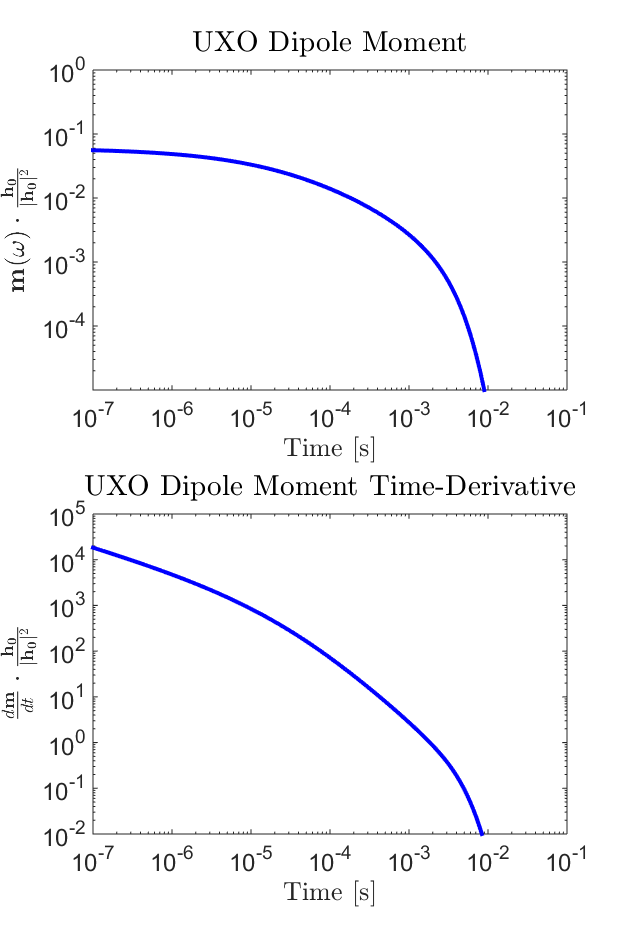
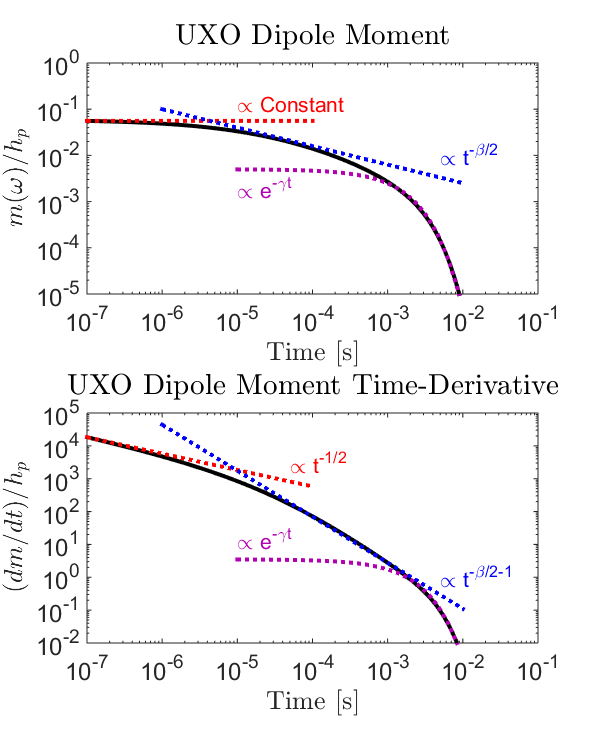
Interpretation edits

diff --git a/content/geophysical_surveys/uxo/physics.rst b/content/geophysical_surveys/uxo/physics.rst
@@ -21,7 +21,7 @@ As explained on the previous page, EM UXO surveys operate on the principles of e
 Dipole Model for UXO Responses
 ------------------------------
 
-Research has shown that in general, the secondary field generated by a UXO (:math:`\mathbf{B}_{s}`) can be approximated by its dipole response (reference). As a result, the excitation of the ordnance item is characterized by an induced magnetic dipole moment (:math:`\mathbf{m}`). Thus:
+Research has shown that in general, the secondary field generated by a UXO (:math:`\mathbf{B}_{s}`) can be approximated by its dipole response (:cite:`Pasion1999,Belletal2001a,Belletal2001b,Zhangetal2003` and others). As a result, the excitation of the ordnance item is characterized by an induced magnetic dipole moment (:math:`\mathbf{m}`). Thus:
 
 .. math::
 	\mathbf{B}_{s} = \frac{\mu_0}{4 \pi} \Bigg [ \frac{3 \hat r \big ( \hat r \cdot \mathbf{m} \big ) - \mathbf{m}}{r^3} \Bigg ]
@@ -36,7 +36,7 @@ where the entries within the geometric forward modeling operator (:math:`\mathbf
 .. math::
 	G_{ij} = \frac{\mu_0}{4 \pi r^3} \big (3 r_i r_j - \delta{ij} \big ) \;\;\; \textrm{for} \;\;\; i,j = x,y,z
 
-and :math:`\delta_{ij}` is the Kronecker delta. The linear formulation allows for rapid computation of the EM response and can be adapted for multiple receiver coils set at one or more different orientations.
+and :math:`\delta_{ij}` is the Kronecker delta. The linear formulation allows for rapid computation of the EM response and can be adapted to accommodate multiple receiver coils.
 
 .. figure:: images/physics_dipole.png
 	:align: center
@@ -45,7 +45,7 @@ and :math:`\delta_{ij}` is the Kronecker delta. The linear formulation allows fo
 
 	Dipole anomaly 2 m above a magnetic dipole :math:`\mathbf{m} = [0,1,1]` Am :math:`\!^2`.
 
-Unlike a conductive and magnetically permeable sphere, the excitation of a UXO is not the same in all directions. As a result, its corresponding polarization cannot be characterized by a single excitation factor (link). This is overcome by treating the UXO as an orthogonal tri-axial object which experiences a polarization along each axis. Ultimately, the UXO's dipole moment can be expressed as: 
+Unlike a conductive and magnetically permeable sphere, the excitation of a UXO is not the same in all directions. As a result, its corresponding polarization cannot be characterized by a single :ref:`excitation factor <sphereFEM_dipole_response>`. This is overcome by treating the UXO as an orthogonal tri-axial object which experiences a polarization along each axis. Ultimately, the UXO's dipole moment can be expressed as: 
 
 .. figure:: images/Coordinates.png
 	:align: right
@@ -57,12 +57,12 @@ Unlike a conductive and magnetically permeable sphere, the excitation of a UXO i
 .. math::
 	\mathbf{m}(\omega) = \mathbf{A^T L A h_p}
 
-where :math:`A (\theta ,\phi )` is a 3D rotation matrix from the coordinate system of the fields (:math:`\hat x,\hat y,\hat z`) to the coordinate system for the UXO (:math:`\hat x',\hat y',\hat z'`), :math:`\mathbf{h_p} = [h_x, h_y, h_z]^T` is a vector denoting transmitter's primary field and :math:`\mathbf{L}` is the polarization tensor. Assuming there is no anisotropy, :math:`\mathbf{L}` is a diagonal matrix of the form:
+where :math:`A (\theta ,\phi )` is a 3D rotation matrix from the coordinate system of the fields (:math:`\hat x,\hat y,\hat z`) to the coordinate system of the UXO (:math:`\hat x',\hat y',\hat z'`), :math:`\mathbf{h_p} = [h_x, h_y, h_z]^T` is a vector representing the transmitter's primary field and :math:`\mathbf{L}` is called the polarization tensor. Assuming there is no anisotropy, :math:`\mathbf{L}` is a diagonal matrix of the form:
 
 .. math::
 	\mathbf{L} = \begin{bmatrix} L_{x'} & 0 & 0 \\ 0 & L_{y'} & 0 \\ 0 & 0 & L_{z'} \end{bmatrix}
 
-where :math:`L_{ii}` characterizes the polarization along each each axial direction :math:`\hat x'`, :math:`\hat y'` and :math:`\hat z'`. It should be noted that this model assumes the inducing field is spatially invariant about the target. For most ordnance items this assumption is acceptable because the items are small.
+where :math:`L_{ii}` characterizes the polarization along each each axial direction :math:`\hat x'`, :math:`\hat y'` and :math:`\hat z'`. It should be noted that this model assumes the inducing field is spatially invariant about the target. For most ordnance items this assumption is acceptable because the items are small and the fields are sufficiently smooth.
 
 
 Frequency-Domain Responses
@@ -75,27 +75,27 @@ The physics which governs the UXO's FEM response can be best understood by consi
 	:figwidth: 50%
 	:name: uxo_physics_FEM_moment
 
-	Induced dipole moment parallel to the inducing field (normalized by the inducing field) for a sphere (:math:`R` = 15 cm, :math:`\sigma=10^6` S/m, :math:`\mu_r` = 30) 2 m below an inductive source.
+	Induced dipole moment normalized by the inducing field for a sphere (:math:`R` = 10 cm, :math:`\sigma=10^6` S/m, :math:`\mu_r` = 30) 2 m below an inductive source.
 
 
 .. math::
 	\mathbf{B_s}(\omega) = \mathbf{G A^T L}(\omega) \mathbf{A h_p}
 
-where :math:`\mathbf{h_p} = [h_x, h_y, h_z]^T` is a vector denoting transmitter's primary field and :math:`\mathbf{L}(\omega)` is the polarization tensor. In this case, the polarization of the UXO depends on frequency. Assuming there is no anisotropy, :math:`\mathbf{L}(\omega)` is a diagonal matrix of the form:
+where :math:`\mathbf{h_p} = [h_x, h_y, h_z]^T` is a vector representing the transmitter's primary field and :math:`\mathbf{L}(\omega)` is the polarization tensor. In this case, the polarization of the UXO is frequency-dependent. Assuming there is no anisotropy, :math:`\mathbf{L}(\omega)` is a diagonal matrix of the form:
 
 .. math::
 	\mathbf{L}(\omega) = \begin{bmatrix} L_{x'} (\omega) & 0 & 0 \\ 0 & L_{y'} (\omega) & 0 \\ 0 & 0 & L_{z'} (\omega) \end{bmatrix}
 
-where :math:`L_{ii}(\omega)` characterizes the polarization along each axis of the UXO. From the model we ultimately see that the UXO's FEM response depends on its orientation relative to the transmitter, its polarization along each axis and the frequency of the transmitter.
+where :math:`L_{ii}(\omega)` characterizes the polarization along each axis of the UXO. From this model, we ultimately see that the UXO's FEM response depends on its orientation relative to the transmitter, its polarization along each axis and the operating frequency of the transmitter.
 
-In the case that the object is a sphere, :math:`L_{ii}(\omega) = \frac{4 \pi R^3}{3} \chi (\omega)` for :math:`ii=x',y',z'` where :math:`\chi (\omega)` is the excitation factor for a sphere. The dipole moment for a spherical object (normalized by the inducing field) is shown in :numref:`uxo_physics_FEM_moment`. The FEM anomaly from the sphere at f = 10 :math:`\!^5` Hz is shown in :numref:`uxo_physics_FEM_anomaly`.
+In the case that the object is a sphere, :math:`L_{ii}(\omega) = \frac{4 \pi R^3}{3} \chi (\omega)` for :math:`ii=x',y',z'` where :math:`\chi (\omega)` is the :ref:`excitation factor for a sphere <sphereFEM_excitation_factor>`. The dipole moment for a spherical object (normalized by the inducing field) is shown in :numref:`uxo_physics_FEM_moment`. The FEM anomaly from the sphere at f = 10 kHz is shown in :numref:`uxo_physics_FEM_anomaly`.
 
 .. figure:: images/physics_FEM_anomaly.png
 	:align: center
 	:figwidth: 100%
 	:name: uxo_physics_FEM_anomaly
 
-	FEM anomaly at f = :math:`10^5` Hz for a coincident loop system which measures 3-component data 2 m above a conductive and magnetically permeable sphere (:math:`R` = 15 cm, :math:`\sigma=10^6` S/m, :math:`\mu_r` = 30).
+	FEM anomaly at f = 10 kHz for a coincident loop system which measures 3-component data 2 m above a conductive and magnetically permeable sphere (:math:`R` = 10 cm, :math:`\sigma=10^6` S/m, :math:`\mu_r` = 30).
 
 Transient Responses
 *******************
@@ -118,21 +118,21 @@ where :math:`\mathbf{d}(t)` is used to represent :math:`dB/dt` or :math:`B(t)` a
 .. math::
 	\mathbf{\eta}(t) = \mathbf{A^T L}(t) \mathbf{A h_p}
 
-where :math:`A` is a 3D rotation matrix from the coordinate system of the transmitter (:math:`x,y,z`) to the coordinate system for the UXO (:math:`x',y',z'`), :math:`\mathbf{h_p} = [h_x, h_y, h_z]^T` is a vector denoting transmitter's primary field before shut-off and :math:`\mathbf{L}(t)` defines the polarization of the UXO. Assuming there is no anisotropy, :math:`\mathbf{L}(t)` is a diagonal matrix of the form:
+where :math:`A` is a 3D rotation matrix from the coordinate system of the transmitter (:math:`x,y,z`) to the coordinate system of the UXO (:math:`x',y',z'`), :math:`\mathbf{h_p} = [h_x, h_y, h_z]^T` is a vector denoting transmitter's primary field before shut-off and :math:`\mathbf{L}(t)` defines the polarization of the UXO. Assuming there is no anisotropy, :math:`\mathbf{L}(t)` is a diagonal matrix of the form:
 
 .. math::
 	\mathbf{L}(t) = \begin{bmatrix} L_{x'} (t) & 0 & 0 \\ 0 & L_{y'} (t) & 0 \\ 0 & 0 & L_{z'} (t) \end{bmatrix}
 
 where :math:`L_{ii}(t)` characterizes the polarization along each axis of the UXO. 
 
-In the case that our object is a sphere, analytic expressions can be found :ref:`here <SphereTEM_transient_response>`. The dipole transient moment of the UXO (normalized by the inducing field) and its time-derivative3 are shown in :numref:`uxo_physics_TEM_moment`. The TEM anomaly from the sphere at t = 10 :math:`\!^{-4}` s is shown in :numref:`uxo_physics_TEM_anomaly`.
+In the case that our object is a sphere, analytic expressions can be found :ref:`here <SphereTEM_transient_response>`. The transient moment of the UXO (normalized by the inducing field) and its time-derivative are shown in :numref:`uxo_physics_TEM_moment`. The TEM anomaly from the sphere at t = 10 :math:`\!^{-4}` s is shown in :numref:`uxo_physics_TEM_anomaly`.
 
-For particular ordnance items, the polarization along each axis may be obtained through experimentation and stored in a library. Parameterizations also exist for describing the polarization of UXOs such that :math:`\mathbf{m}(t) = L(t) \mathbf{h_p}`. In this case, :math:`L(t)` is a scalar function which assumes that polarization of the UXO is parallel to the inducing field. One such parameterization for the decay of :math:`B (t)` is given by (Becker):
+For particular ordnance items, the polarization along each axis may be obtained through experimentation and stored in a library. Parameterizations also exist for describing the polarization of UXOs such that :math:`\mathbf{m}(t) = L(t) \mathbf{h_p}`. In this case, :math:`L(t)` is a scalar function which assumes that polarization of the UXO is parallel to the inducing field. One such parameterization for the decay of :math:`B (t)` is given by (:cite:`Smithetal2003`):
 
 .. math::
 	L(t) = k \Bigg ( 1 + \sqrt{\frac{t}{\alpha}} \, \Bigg )^{-\beta} e^{-t/\gamma}
 
-which depends on parameters :math:`k, \alpha, \beta` and :math:`\gamma`. At early times, we can see that the decay of :math:`B(t)` is very flat and that :math:`dB/dt` decays proportional to :math:`t^{-1/2}`. At intermediate times, the decay of :math:`B(t)` is proportional to :math:`t^{-\beta/2}`. At late times, the responses exhibits exponential decay which is dependent on :math:`e^{-t/\gamma}`. Early, mid and late-time decays can all be see in :numref:`uxo_physics_TEM_moment`.
+which depends on parameters :math:`k, \alpha, \beta` and :math:`\gamma`. At early times, we can see that the decay of :math:`B(t)` is very flat and that :math:`dB/dt` decays proportional to :math:`t^{-1/2}`. At intermediate times, the decay of :math:`B(t)` is proportional to :math:`t^{-\beta/2}`; which only occurs for objects that sufficiently permeable. At late times, the responses exhibits exponential decay which is dependent on :math:`e^{-t/\gamma}`. Early, mid and late-time decays can all be see in :numref:`uxo_physics_TEM_moment`.
 
 .. figure:: images/physics_TEM_anomaly.png
 	:align: center

diff --git a/content/geophysical_surveys/uxo/interpretation.rst b/content/geophysical_surveys/uxo/interpretation.rst
@@ -30,14 +30,14 @@ Workflow for UXO Classification
 
 The former approach is appealing in its simplicity but is generally not an effective strategy. For example, an ordnance item at depth will produce a small anomaly amplitude and might be left in the ground when using a dig list based solely upon anomaly amplitude. Most classification strategies therefore use physical modeling to resolve such ambiguities.
 
-Detailed descriptions of the physical modeling used for processing electromagnetic data are given in Bell et al. (2001), Pasion and Oldenburg (2001) and Zhang et al. (2003); see physics (link) for example. In the feature estimation stage, these models are fit to the observed EM data for each target anomaly (:numref:`fig_metal_mapper_uxo`). The model is parameterized by target location (:math:`x,y,z`), orientation (:math:`\theta,\phi`) and polarizabilities (:math:`L_{x'}, L_{y'}, L_{z'}`). The polarizabilities are intrinsic to each target and can therefore be used to make classification decisions.
+Detailed descriptions of the physical modeling used for processing electromagnetic data are given in Bell et al. (:cite:`Belletal2001b`), Pasion and Oldenburg (:cite:`PasionOldenburg2001`) and Zhang et al. (:cite:`Zhangetal2003`); note that models were presented in :ref:`physics <uxo_physics>`. In the feature estimation stage, these models are fit to the observed EM data for each target anomaly (:numref:`fig_metal_mapper_uxo`). The model is parameterized by target location (:math:`x,y,z`), orientation (:math:`\theta,\phi`) and polarizabilities (:math:`L_{x'}, L_{y'}, L_{z'}`). The polarizabilities are intrinsic to each target and can therefore be used to make classification decisions.
 
 .. figure:: images/MetalMapper.png
 	:align: center
 	:figwidth: 100%
 	:name: fig_metal_mapper_uxo
 
-	Fitting Metal Mapper data using the dipole model. (a) Observed data (top row) and data predicted by fitting a physical model to the observed data (middle row). Bottom row shows a negligible difference between observed and predicted data, indicating a good fit. (b) Estimated polarizabilities (colored lines) recovered via fitting, overlain on known polarizabilities for 37 mm projectiles. The excellent correspondence between recovered and reference polarizabilities indicates – with high confidence – that the detected target is a 37 mm item.
+	Fitting Metal Mapper data using the parameterized model. (a) Observed data (top row) and data predicted by fitting a physical model to the observed data (middle row). Bottom row shows a negligible difference between observed and predicted data, indicating a good fit. (b) Estimated polarizabilities (colored lines) recovered via fitting, overlain on known polarizabilities for 37 mm projectiles. The excellent correspondence between recovered and reference polarizabilities indicates – with high confidence – that the detected target is a 37 mm item.
 
 
 **Quality Control:** Once the data has been fit using a parameterized model, it is important to assess how well the model is able to explain the data. This can be done by examining the difference between the observed data and data predicted using the parameterized model. 
@@ -62,21 +62,35 @@ Generally the EM responses from UXOs are significantly stronger than the EM resp
 .. math::
 	B_{tot} = B_{s} + B_{geo}
 
+It is important to recognize when the geological response is significant. If treated properly, the geological response can be removed from the observe data, thus isolating the target's response.
+
 Conductive Backgrounds
 **********************
 
-**Needs image as example**
+.. figure:: images/uxo_cond_Earth.png
+	:align: right
+	:figwidth: 40%
+	:name: fig_uxo_cond_Earth
 
-In regions where the local geology is very conductive (:math:`\sigma > 0.1` S/m), the Earth's inductive response becomes significant. As a result, processing steps are required in order to remove the Earth's inductive response. The transient response from conductive geologies is generally recognized as having a :math:`B(t)` response which decays as :math:`t^{-3/2}` and a :math:`dB/dt` response which decays as :math:`t^{-5/2}`. The decay of the Earth's inductive response is comparatively faster than the decays of typical UXOs. As a result, inductive responses from the Earth are more likely to impact UXO data at earlier times.
+	Example of the Earth's inductive response masking the early time response from a UXO.
+
+In regions where the local geology is very conductive (:math:`\sigma > 0.1` S/m), the Earth's inductive response becomes significant. The transient response from a conductive Earth is generally recognized as having a :math:`B_z(t)` response which decays as :math:`t^{-3/2}` and a :math:`dB_z/dt` response which decays as :math:`t^{-5/2}`. Generally speaking, the Earth's inductive response decays much faster than the responses exhibited by UXOs. As a result, inductive responses from the Earth are more likely to impact UXO data at earlier times.
+
+Processing steps are sometimes added in order to remove the Earth's inductive response. A common approach is to fit the background response using the best-fitting local half-space model. Data are then forward modeled over the target and subtracted from the observed data.
 
 Magnetic Backgrounds
 ********************
 
-**Needs image as example**
+.. figure:: images/uxo_VRM_Earth.png
+	:align: right
+	:figwidth: 40%
+	:name: fig_uxo_VRM_Earth
 
-TEM methods become less effective in regions where lateritic topsoils are prominent. Lateritic soils are highly weathered, rich in iron-oxide minerals and found within tropical and sub-tropical climates. Lateritic soils exhibit viscous remanent magnetization (VRM) (link). Responses attributed to VRM have been known to mask the TEM anomalies from UXOs. The VRM response is characterized as having a B(t) decay poportional to :math:`ln(t)` and a :math:`dB/dt` decay proportional to :math:`t^{-1}`.
+	Example of the VRM response masking the late time response from a UXO.
 
+TEM methods become less effective in regions where lateritic topsoils are prominent. Lateritic soils are highly weathered, rich in iron-oxide minerals and found within tropical and sub-tropical climates. Lateritic soils are known to exhibit strong viscous remanent magnetization (VRM) (link). As a result, these soils exhibit a transient magnetic response which has been shown to mask the TEM anomalies exhibited by UXOs. The VRM response is characterized as having a :math:`B(t)` response which decays poportional to :math:`ln(t)`. Meanwhile, the :math:`dB/dt` response decays proportional to :math:`t^{-1}`. VRM responses commonly mask the late time responses exhibited by UXOs. However because VRM and UXO responses decay similarly over early and mid-times, they can be hard to differentiate.
 
+Processing steps are sometimes added in order to remove the Earth's VRM response. A common approach (:cite:`Pasion2007`) is to fit the background response using the best-fitting local half-space model. Data are then forward modeled over the target and subtracted from the observed data. 3D modeling approaches are currently being developed (:cite:`Cowan2016`).
 
 
 

diff --git a/content/geophysical_surveys/uxo/survey.rst b/content/geophysical_surveys/uxo/survey.rst
@@ -7,7 +7,7 @@ Survey
     :file: ../../../underconstruction.html
 
 
-Instruments designed for UXO applications come in a wide variety of geometries ranging from single loop, man-portable systems to cart systems with multiple transmitters and receivers. Each system has its advantages and disadvantages. As a result, it is important to choose a UXO system which works well for a particular setting. Frequency domain systems have been used for decades, however, modern time domain systems are currently a more popular choice. Aspects of UXO surveys as they relate to instrumentation are discussed here. Aspects of survey design are discussed here (link).
+Instruments designed for UXO applications come in a wide variety of geometries ranging from single loop, man-portable systems to cart systems with multiple transmitters and receivers. Each system has its advantages and disadvantages. As a result, it is important to choose a UXO system which works well for a particular setting. Frequency domain systems have been used for decades, however, modern time domain systems are currently a more popular choice. Aspects of UXO surveys as they relate to instrumentation are discussed here. Aspects of survey design are discussed :ref:`here <uxo_survey_design>`.
 
 .. figure:: images/surveys_examples.png
 	:align: center
@@ -56,7 +56,7 @@ For UXO systems, coils of wire (receiver loops) are used to measure the secondar
 
 Frequency domain systems measured real and quadrature components of the secondary field. Time domain systems generally measure the target's :math:`dB/dt` response; although there are systems capable of measuring :math:`B(t)` directly. Receiver loops are only sensitive to components of the secondary field parallel to their normal vector. Thus in order to obtain 3-component data, multiple orthogonal receiver loops must be used.
 
-As we can see from the illustration above, the EMF induced within the receiver loop is proportional to both the loop's cross-sectional area (:math:`A`) and the number of turns (:math:`N`). Because the EM anomalies from UXOs are so compact, receiver coils with smaller cross-sectional areas must be used in order to accurately quantify the target's response at a particular location. The corresponding decrease is signal to noise ratio which results from using small receiver loops is overcome by using coils of wire with many turns.
+As we can see from the illustration above, the EMF induced within the receiver loop is proportional to both the loop's cross-sectional area (:math:`A`) and the number of turns (:math:`N`). Because the EM anomalies from UXOs are so compact, receiver coils with smaller cross-sectional areas must be used in order to accurately quantify the target's response at a particular location. The corresponding decrease in signal to noise ratio from small receiver loops is overcome by using coils of wire with many turns.
 
 Transmitter Source Signal
 -------------------------
@@ -90,7 +90,7 @@ When operating in the time domain, we are generally interested in the UXO's tran
 Survey Configurations
 ---------------------
 
-Below are a set of electromagnetic sensors which have been applied to UXO detection and classification problems. This is not a comprehensive list of electromagnetic sensors, but is intended to illustrate the recent evolution towards configurations with multiple transmitters and receivers. Although FEM systems have been used for decades with varying levels of success, modern TEM systems are most commonly used for UXO detection. As a result, most of the instruments presented here will belong to the class of TEM systems. 
+Below are a set of electromagnetic sensors which have been applied to UXO detection and classification problems. This is not a comprehensive list of electromagnetic sensors, but is intended to illustrate the recent evolution towards configurations with multiple transmitters and receivers. Although FEM systems have been used for decades with varying levels of success, modern TEM systems are more commonly used for UXO detection. As a result, most of the instruments presented here will belong to the class of TEM systems. 
 
 Frequency-Domain Systems
 ************************
@@ -118,7 +118,7 @@ The Geonix EM-61 is a time-domain instrument with a single horizontal transmitte
 
 **TEMTADS**
 
-The TEMTADS system is comprised of a square horizontal transmitter loop and an array of 25 horizontal coplanar receiver loops; thus it measures the vertical TEM response. By mounting this system onto a cart, it may be used to survey larger regions in a relatively short amount of time. The addition of multiple smaller receiver loops allows for better characterization of more compact TEM anomalies.
+The TEMTADS system is comprised of a square horizontal transmitter loop and an array of 25 horizontal coplanar receiver loops; thus it measures the vertical TEM response. By mounting this system onto a cart, it may be used to survey large areas in a relatively short amount of time. The addition of multiple small receiver loops allows for better characterization of compact TEM anomalies.
 
 .. figure:: images/fig_TEMTADS_uxo.png
 	:align: center
@@ -128,7 +128,7 @@ The TEMTADS system is comprised of a square horizontal transmitter loop and an a
 
 **MPV**
 
-The man-portable vector (MPV) instrument is comprised of a 50 cm diameter transmitter loop and an array of 5 receivers. Each receiver measures 3-component data, resulting in 15 transmitter-receiver pairs. This instrument was designed to improve maneuverability in more rugged terrain. The use of small receiver loops allows for accurate characterization of compact TEM anomalies.
+The man-portable vector (MPV) instrument is comprised of a 50 cm diameter transmitter loop and an array of 5 receivers. Each receiver measures 3-component data, resulting in 15 transmitter-receiver pairs. This instrument was designed to improve maneuverability in rugged terrain. The use of small receiver loops allows for accurate characterization of compact TEM anomalies.
 
 .. figure:: images/fig_MPV_uxo.png
 	:align: center

diff --git a/content/geophysical_surveys/uxo/data.rst b/content/geophysical_surveys/uxo/data.rst
@@ -12,9 +12,9 @@ During a UXO survey, an inductive loop source generates a primary field. The pri
 
 	EMF induced within a receiver loop. A) FEM receiver loop. B) TEM receiver loop.
 
-**What are the raw data:** The voltage induced within the receiver coil represents the raw data for UXO surveys. However if information about the receiver is known (dimensions, number of turns, gain factor), raw voltages can be used to obtain the secondary field or its time-derivative at each data location.
+**What are the raw data:** The voltage induced within the receiver coil represents the raw data for UXO surveys. However if information about the receiver is known (dimensions, number of turns, gain factor), raw voltages can be used to recover the secondary field or its time-derivative at each data location.
 
-**Units:** For UXO surveys, data are frequently given in units of :math:`mV` or :math:`\mu V`. It should be noted that a gain factor may have been applied to the voltages measured by the receiver(s). If the data are being represented in terms of the field, :math:`\mu T` or :math:`nT` may be used. When representing the time-derivative, data are usually given in :math:`\mu T/s` or :math:`nT/s`. As we will discuss in interpretation (link), specific units for the data are somewhat less important for UXO surveys than they are for other EM surveys.
+**Units:** Data are frequently given in units of :math:`mV` or :math:`\mu V`. It should be noted that a gain factor may have been applied to the voltages measured by the receiver(s). If the data are being represented in terms of the field, :math:`\mu T` or :math:`nT` may be used. When representing the time-derivative, data are usually given in :math:`\mu T/s` or :math:`nT/s`.
 
 Frequency Domain Data
 ---------------------
@@ -36,7 +36,7 @@ Vertical FEM anomalies over a host a conductive (:math:`\sigma > 10^6` S/m) and 
 Time Domain Data
 ----------------
 
-When operating in the time domain, we are generally interested in the UXO's transient response; that is, the response to step-off excitation. For some systems (EM-61), the off-time response may only be measured for a few time channels. For newer systems, 10s of time channels are used to accurately characterize the decays of potential targets. Off-time data are typically collected between 100 :math:`\mu s` to 25 :math:`ms` after the transmitter is shut off. A representation of the transmitter's current waveform and measured time channels is illustrated below.
+When operating in the time domain, we are generally interested in the UXO's transient response; that is, the response to step-off excitation. For some systems (EM-61), the off-time response may only be measured for a few time channels. For newer systems, 10s of time channels are used to accurately characterize the decays of potential targets. Off-time data are typically collected between 100 :math:`\mu s` and 25 :math:`ms` after the transmitter is shut off. A representation of the transmitter's current waveform and measured time channels is illustrated below.
 
 .. figure:: images/time_channels.png
 	:align: center
@@ -49,7 +49,7 @@ When operating in the time domain, we are generally interested in the UXO's tran
 TEM Anomalies
 *************
 
-Anomalies associated with the transient response decay over time. The rate of decay (:math:`dBdt`) at early, mid and late-times depends significantly on the dimensions and physical properties of each target.
+Anomalies associated with the transient response decay over time. The rate of decay (:math:`dB/dt`) at early, mid and late-times depends significantly on the dimensions and physical properties of each target.
 
 Vertical TEM anomalies over a host a conductive (:math:`\sigma > 10^6` S/m) and magnetically permeable (:math:`\mu_r > 1`) objects are shown below. The objects were excited with a step-off excitation using a vertical dipole source (small loop). This is meant to demonstrate the type of data one would observe when using a domain coincident loop system (EM-61).
 
@@ -71,9 +71,9 @@ TEM Decays
 
 	3-component TEM decays observed using MPV instrument.
 
-For instrument arrays containing multiple transmitters and receivers, we frequently plot the decays observed over a particular target. In physics (link), we showed that UXOs display particular decays over early, mid and late times.
+In the :ref:`physics section <uxo_physics>`, we learned that UXOs display particular decays over early, mid and late times. As a result, significant information about a potential target can be obtained by plotting the TEM response over all time channels. For instrument arrays containing multiple transmitters and receivers, this may result in many plotted decays. 
 
-On the right, we show a host of decays over a conductive (:math:`\sigma = 10^6` S/m) and magnetically permeable (:math:`\mu_r = 30`) using an MPV instrument. Here, 3-component data were collected within a 2 m :math:`\times` 2 m grid over the target.
+On the right, we show decaying :math:`dB/dt` responses over a conductive (:math:`\sigma = 10^6` S/m) and magnetically permeable (:math:`\mu_r = 30`) object using an MPV instrument. Here, 3-component data were collected within a 2 m :math:`\times` 2 m grid over the target.
 
 
 
